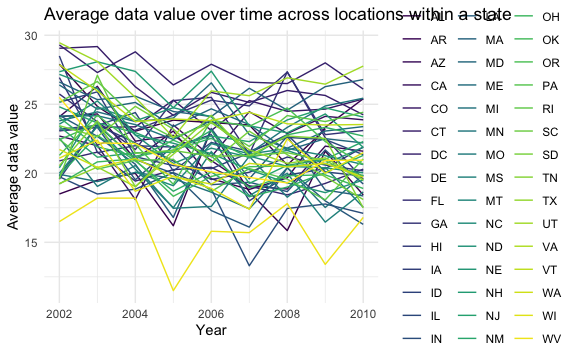
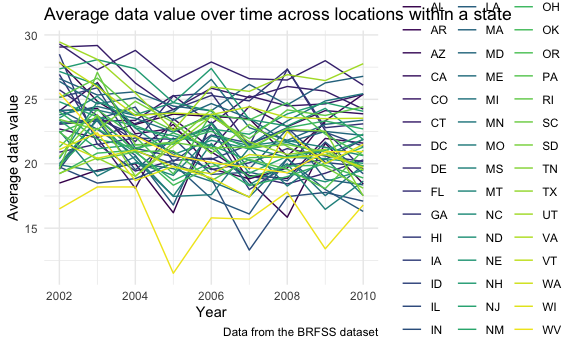
updated graph formatting (added caption) for problem 2

diff --git a/p8105_hw3_rr3423.md b/p8105_hw3_rr3423.md
@@ -93,8 +93,8 @@ instacart %>%
 
 This plot shows that the top 3 aisles that the most items are ordered
 from in descending order are: “fresh vegetables”, “fresh fruits”, and
-“packaged vegetables fruits”. The “fresh vegetables” aisle has 150,609
-items ordered, the “fresh fruits” aisle has 150,473 items ordered, and
+“packaged vegetables fruits”. The “fresh vegetables” aisle has 150609
+items ordered, the “fresh fruits” aisle has 150473 items ordered, and
 the “packaged vegetables fruits” aisle has 78493 items ordered.
 
 ### Constructing a table of three most popular items in each of the aisles “baking ingredients”, “dog food care”, “packaged vegetables fruits”
@@ -253,7 +253,7 @@ brfss_df %>%
 In 2010, the following fourteen states were observed at 7 or more
 locations: CA, CO, FL, MA, MD, NC, NE, NJ, NY, OH, PA, SC, TX, WA.
 
-### Constructing a dataset limited to Excellent responses which contains year, state, and a variable that averages the data\_value across locations within a state.
+### Constructing a dataset and spaghetti plot limited to Excellent responses which contains year, state, and a variable that averages the data\_value across locations within a state.
 
 ``` r
 # constructing dataset and making spaghetti plot
@@ -266,12 +266,11 @@ brfss_df %>%
   labs(
     title = "Average data value over time across locations within a state",
     x = "Year",
-    y = "Average data value"
+    y = "Average data value",
+    caption = "Data from the BRFSS dataset"
   ) + 
   theme(legend.position = "right")
 ```
-
-    ## `summarise()` has grouped output by 'year'. You can override using the `.groups` argument.
 
 <img src="p8105_hw3_rr3423_files/figure-gfm/constructing_dataset-1.png" width="90%" />
 
